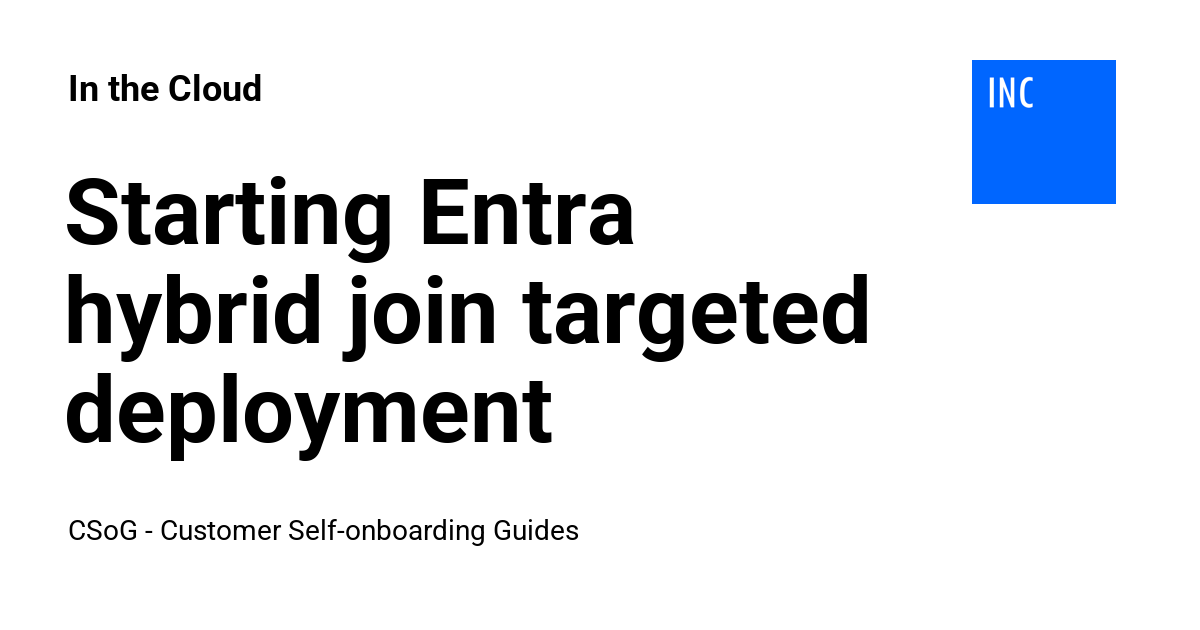
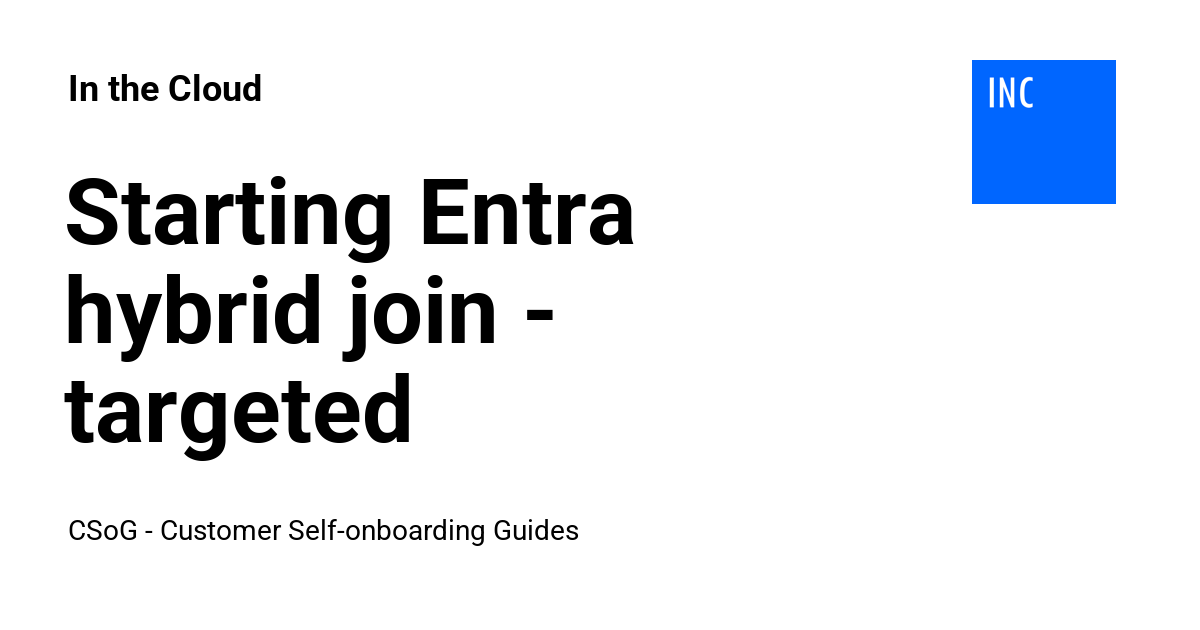
Deployed a15a251 with MkDocs version: 1.6.1

Changed region(s): [[0.0308, 0.573, 0.4625, 0.754], [0.4317, 0.4222, 0.74, 0.573]]

diff --git a/entra/hbj/index.html b/entra/hbj/index.html
@@ -22,7 +22,7 @@
     
     
       
-        <title>Starting Entra hybrid join targeted deployment - In the Cloud</title>
+        <title>Starting Entra hybrid join - targeted deployment - In the Cloud</title>
       
     
     
@@ -59,7 +59,7 @@
       
         <meta  property="og:type"  content="website" >
       
-        <meta  property="og:title"  content="Starting Entra hybrid join targeted deployment - In the Cloud" >
+        <meta  property="og:title"  content="Starting Entra hybrid join - targeted deployment - In the Cloud" >
       
         <meta  property="og:description"  content="CSoG - Customer Self-onboarding Guides" >
       
@@ -75,7 +75,7 @@
       
         <meta  name="twitter:card"  content="summary_large_image" >
       
-        <meta  name="twitter:title"  content="Starting Entra hybrid join targeted deployment - In the Cloud" >
+        <meta  name="twitter:title"  content="Starting Entra hybrid join - targeted deployment - In the Cloud" >
       
         <meta  name="twitter:description"  content="CSoG - Customer Self-onboarding Guides" >
       
@@ -100,7 +100,7 @@
     <div data-md-component="skip">
       
         
-        <a href="#microsoft-entra-hybrid-join-targeted-deployment" class="md-skip">
+        <a href="#starting-entra-hybrid-join-targeted-deployment" class="md-skip">
           Skip to content
         </a>
       
@@ -133,7 +133,7 @@
         <div class="md-header__topic" data-md-component="header-topic">
           <span class="md-ellipsis">
             
-              Starting Entra hybrid join targeted deployment
+              Starting Entra hybrid join - targeted deployment
             
           </span>
         </div>
@@ -691,7 +691,7 @@
                   
 
 
-<h1 id="microsoft-entra-hybrid-join-targeted-deployment">Microsoft Entra hybrid join targeted deployment</h1>
+<h1 id="starting-entra-hybrid-join-targeted-deployment">Starting Entra hybrid join - targeted deployment</h1>
 <p>เครื่องคอมพิวเตอร์ที่ join on-premises AD DS อยู่ สามารถนำไป join Entra ID โดยอัตโนมัติได้ด้วยการทำ Entra Hybrid Join</p>
 <p>ในขณะที่เราสามารถรีรัน Entra Connect เพื่อสร้าง Service Connection Point (SCP) ลงใน AD DS ให้ทุกเครื่องที่ join domain มองเห็น ตาม <a href="https://learn.microsoft.com/en-us/entra/identity/devices/how-to-hybrid-join#managed-domains">Configure Microsoft Entra hybrid join</a></p>
 <p><img alt="alt text" src="../../assets/ehj/250213/image-36.png" /></p>

diff --git a/entra/casf/index.html b/entra/casf/index.html
@@ -102,7 +102,7 @@
     <div data-md-component="skip">
       
         
-        <a href="#conditional-access-policy-templates-secure-foundation-sf" class="md-skip">
+        <a href="#starting-conditional-access-secure-foundation-sf" class="md-skip">
           Skip to content
         </a>
       
@@ -1167,7 +1167,7 @@
                   
 
 
-<h1 id="conditional-access-policy-templates-secure-foundation-sf">Conditional Access policy templates - Secure foundation (SF)</h1>
+<h1 id="starting-conditional-access-secure-foundation-sf">Starting Conditional Access - Secure foundation (SF)</h1>
 <p>Conditional Access templates จาก <a href="https://learn.microsoft.com/en-us/entra/identity/conditional-access/concept-conditional-access-policy-common?tabs=secure-foundation">Conditional Access policy templates</a> ช่วยให้เราสามารถสร้าง policy ตามคำแนะนำจาก Microsoft ได้โดยง่าย</p>
 <p>Templates มีหลายหมวด ในคู่มือนี้จะทำหมวด Secure foundation ซึ่งเป็น Conditional Access พื้นฐานที่ทุกองค์กรควรทำนะครับ</p>
 <h2 id="prerequisites">Prerequisites</h2>
